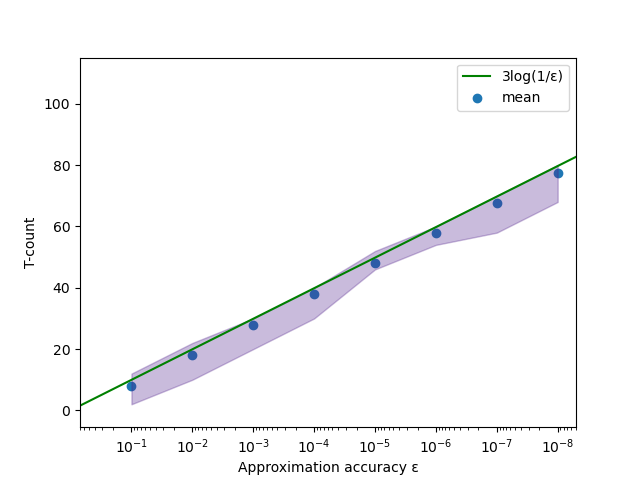
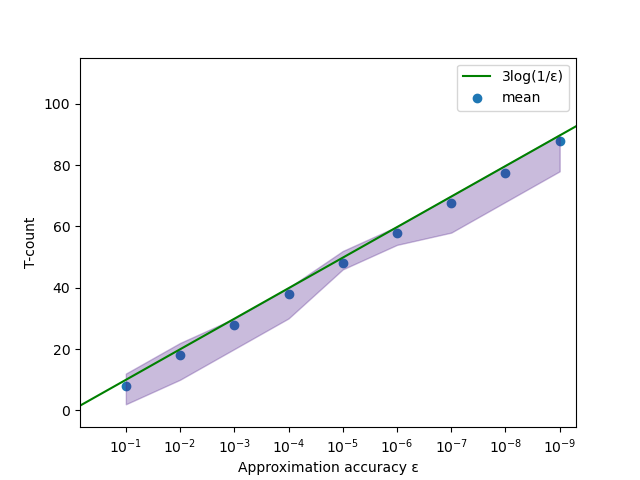
fix plot

diff --git a/src/plot/plot.py b/src/plot/plot.py
@@ -8,9 +8,9 @@ while(eps >= 1e-10):
     x.append(eps)
     eps = eps / 10
 
-MAX = [12, 22, 30, 40, 52, 60, 70, 80]
-MIN = [2, 10, 20, 30, 46, 54, 58, 68]
-mean = [7.96, 18, 27.78, 38.04, 48.04, 57.92, 67.7, 77.52]
+MAX = [12, 22, 30, 40, 52, 60, 70, 80, 90]
+MIN = [2, 10, 20, 30, 46, 54, 58, 68, 78]
+mean = [7.96, 18, 27.78, 38.04, 48.04, 57.92, 67.7, 77.52, 87.86]
 x = x[:len(MAX)]
 
 x_ideal = [1/(i+1) for i in range(0, int(1e11), 10000000)]
@@ -31,7 +31,7 @@ ax.set_xscale("log")
 x.reverse()
 ax.set_xticks(x)
 ax.invert_xaxis()
-ax.set_xlim(0.7, 0.5*1e-8)
+ax.set_xlim(0.7, 0.5*1e-9)
 
 ax.set_xlabel("Approximation accuracy ε")
 ax.set_ylabel("T-count")
